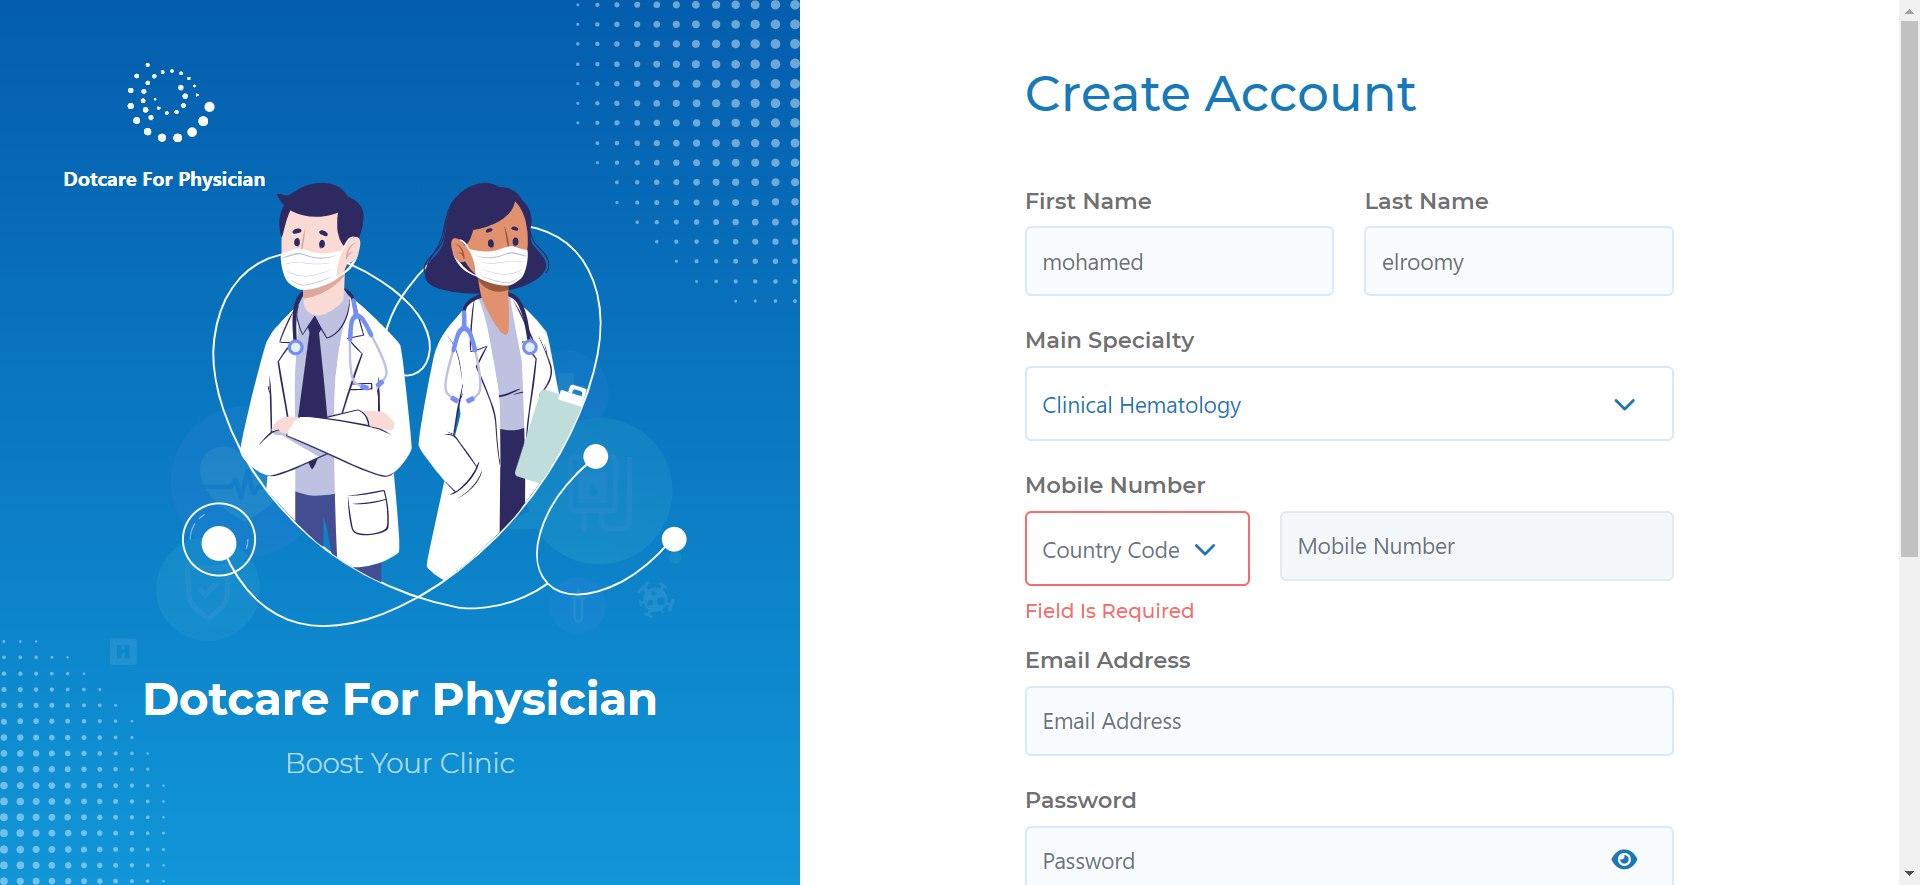
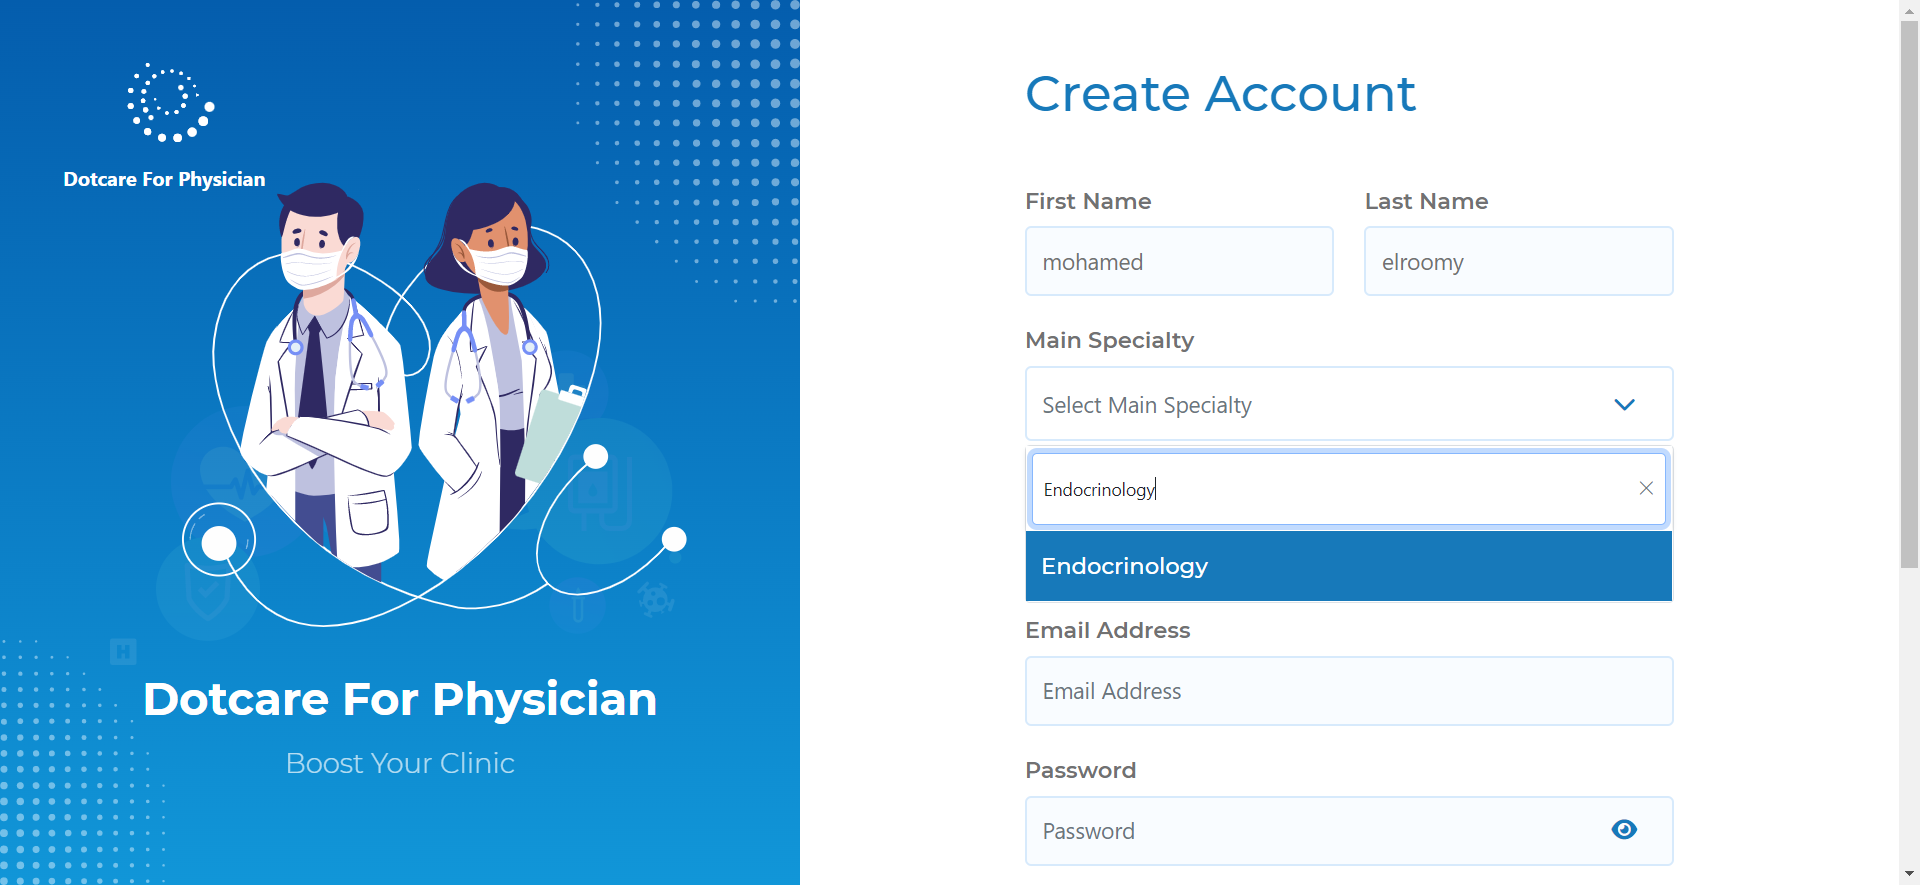
hi

diff --git a/src/main/java/Pages/RegistrationPage.java b/src/main/java/Pages/RegistrationPage.java
@@ -81,6 +81,7 @@ public class RegistrationPage extends PageBase{
         waits(100);
         //insert specialty name
         insertTextIntoElement(specialtySearch,Specialty.getName());
+        waits(200);
         new WebDriverWait(driver, Duration.ofSeconds(20)).until(ExpectedConditions.visibilityOf(mainSpecialtyList));
 
         // re-declare mainSpecialtyList to choose the inserted specialty after the list has changed by inserting specialty name
